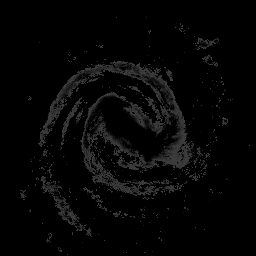
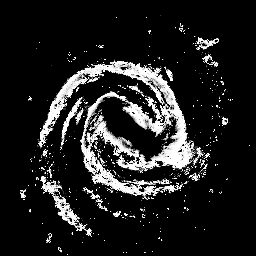
Distributes the clouds according to the map

diff --git a/js/GalaxThree.js b/js/GalaxThree.js
@@ -34,7 +34,8 @@ function StarCategory(name, spectralTypes, radius, luminosity, proba) {
  */ 
 function Galaxy(scene,
 		starImagePath,
-		img,
+		imgStarMap,
+		imgCloudMap,
 		radiusInLy = 200,
 		heightInLy = 5,
 		numberOfStars = 1e6 ) {
@@ -91,10 +92,10 @@ function Galaxy(scene,
     // spectral types.
     createGeoAndMaterials( geoAndMaterialsOfCategories );
 
-    generateStarsAccordingToMap( numberOfStars, img );
+    generateStarsAccordingToMap( numberOfStars, imgStarMap );
     writeConsole( "Number of stars : " + this.starCount );
 
-    let nbClouds = generateClouds( 1000, img, scene );
+    let nbClouds = generateClouds( 10000, imgCloudMap, scene );
     writeConsole( "Number of clouds : " + nbClouds );
 
     // Adds stars to the scene.
@@ -106,9 +107,6 @@ function Galaxy(scene,
 	    }
 	}
     }
-
-
-
 
 
 
@@ -131,8 +129,9 @@ function Galaxy(scene,
 			color: self.spectralTypeToColor[ spectralType ],
 			map: starTexture,
 			size: Math.pow( category.luminosity, 0.8 ) * 1e11,
-			blending: THREE.AdditiveBlending,
-			transparent: true, } ) } );
+			//blending: THREE.SubstractiveBlending,
+			transparent: true,
+		    } ) } );
 	    	
 	    } // end for each spectral type of the category.
 	    
@@ -142,7 +141,7 @@ function Galaxy(scene,
 
 
 
-    
+        
     //////////////////////////////////////////////////////////////////////
     function generateStarsAccordingToMap( numberOfStars, img ) {
 					  
@@ -219,76 +218,85 @@ function Galaxy(scene,
 
 
 
-
     
     //////////////////////////////////////////////////////////////////////
     function generateClouds( numberOfCloud, img, scene ) {
 
+	// Takes the data from the image.
 	let imgData = getImgDataArray( img );
-	let probaForAWhitePixel = getProbaForAWhitePixel( imgData, numberOfCloud );
-	writeConsole( "Proba for a white pixel : " + probaForAWhitePixel );
+	let maxCol = getMaxArray( imgData.data );
+
+	// Adjust all color values between 255 and 0 if the max color is not 255.
+	let coef = 255.0 / maxCol;
+	for ( let i = 0 ; i < imgData.data.length ; i += 4 ) {
+	    imgData.data[i] *= coef;
+	}
+	
 	let pixelSizeInWorldCoord = self.radiusInKm / img.width;
 	let cloudPlaced = 0;
 
-	let text1 = new THREE.TextureLoader().load( "../resources/smoke1.png" );
-	
-	let geo = new THREE.Geometry();
-	
-	while ( cloudPlaced < numberOfCloud )  {
-	    
-	    // For each pixel of the map.
-	    for ( let i = 0 ; i < imgData.data.length && cloudPlaced < numberOfCloud ;
-		  i += 4 ) {
+	let textures = [
+	    new THREE.TextureLoader().load( "../resources/smoke1.png" ),
+	    new THREE.TextureLoader().load( "../resources/smoke2.png" ),
+	];
+	let materials = [
+	    new THREE.PointsMaterial( { color: 0x120804,
+					map: textures[0],
+					size: 5e3 * ly,
+					transparent: true,
+					//blending: THREE.NoBlending,
+					//alphaTest: 0.5,
+				      } ),
+	    // new THREE.PointsMaterial( { color: 0x0f0f0f,
+	    // 				map: textures[1],
+	    // 				size: 4e3 * ly,
+	    // 				transparent: true,
+	    // 			      } ),
+	];
+	let geometries = [
+	    new THREE.Geometry(),
+	    new THREE.Geometry(),
+	];
 
-		let probaForThisPixel = probaForAWhitePixel * ( imgData.data[i] / 255 );
-		let a = Math.random();
+	
+	// For each cloud to place.
+	for ( let i = 0 ; i < numberOfCloud ; ++i ) {
+
+	    let cloudIsPlaced = false;
+	    
+	    while ( !cloudIsPlaced ) {
 		
-		if ( a < probaForThisPixel ) {
+		let a = Math.random();
+		let randomPixelIndex = Math.floor( Math.random() * ( imgData.data.length / 4 ) ) * 4 ;
+
+		if ( a < imgData.data[randomPixelIndex] / 255 ) {
 		    
-		    let pixelX = ( i / 4 ) % img.width;
-		    let pixelY = Math.floor( ( i / 4 ) / img.width );
+		    let pixelX = ( randomPixelIndex / 4 ) % img.width;
+		    let pixelY = Math.floor( ( randomPixelIndex / 4 ) / img.width );
 		    let worldX = pixelX * pixelSizeInWorldCoord;
 		    let worldZ = pixelY * pixelSizeInWorldCoord;
 
 		    let pos = new THREE.Vector3( );
 		    pos.x = worldX;
 		    pos.z = worldZ;
-		    geo.vertices.push( pos );
+		    let whichCloudTex = Math.floor( Math.random() * materials.length );
+		    geometries[whichCloudTex].vertices.push( pos );
 		    ++cloudPlaced;
+		    cloudIsPlaced = true;
 		    
 		}
-	    }
+	    } // end while 
+	} // end for
+
+	for( let i = 0 ; i < geometries.length ; ++i ) {
+	    scene.add( new THREE.Points( geometries[i], materials[i] ) );
 	}
-
-	let mat = new THREE.PointsMaterial( { color: 0x100500,
-					      map: text1,
-					      size: 5e3 * ly,
-					      transparent: true,
-					      blending : THREE.AdditiveBlending
-					    } );
-	scene.add( new THREE.Points( geo, mat ) );
-
+	
 	return cloudPlaced;
 	
     } // end function
-    
-
 
     
-    //////////////////////////////////////////////////////////////////////
-    function getProbaForAWhitePixel( imgData, numberOfThing ) {
-
-	let s = 0;
-
-	for ( let i = 0 ; i < imgData.data.length ; i += 4 ) {
-	    s += imgData.data[i];
-	}
-
-	let S = s / 255;
-	writeConsole( "s = " + s + "S = " + S );
-	return S / ( imgData.data.length / 4 ) / numberOfThing;
-	
-    } // end function 
     
 
     //////////////////////////////////////////////////////////////////////
@@ -374,12 +382,36 @@ function getImgDataArray( img ) {
     let data = new Object();
     //img.setAttribute( 'crossOrigin', 'anonymous' );
     let canvas = document.createElement( "canvas" );
+    document.body.appendChild( canvas );
     canvas.width = img.width;
     canvas.height = img.height;
     let ctx = canvas.getContext( "2d" );
     ctx.drawImage(img, 0, 0);
     data = ctx.getImageData( 0, 0, img.width, img.height );
+
+    canvas.parentNode.removeChild( canvas );
+    
     return data;
+    
+}
+
+
+
+function getMaxArray( array ) {
+
+    let max;
+    
+    if ( array.length >= 1 ) {
+	max = array[0];
+    }
+    
+    for ( let i = 1 ; i < array.length ; ++i ) {
+	if ( array[i] > max ) {
+	    max = array[i];
+	}
+    }
+
+    return max;
     
 }
 

diff --git a/test/testOverview.html b/test/testOverview.html
@@ -16,10 +16,11 @@
     </head>
 
     
-    <body>
+    <body id="body">
 	
 	<canvas id="myCanvas"></canvas>
 	<img id="shape" src="../resources/mw-star-map.png"/>
+	<img id="cloud" src="../resources/mw-cloud-map.png"/>
 
 	<script src="../js/lib/stats.min.js"></script>
 	<script src="../js/lib/dat.gui.min.js"></script>
@@ -90,13 +91,15 @@
 	     scene = new THREE.Scene();
 
 	     // Galaxy
-	     let img = document.getElementById( "shape" );
+	     let imgStarMap = document.getElementById( "shape" );
+	     let imgCloudMap = document.getElementById( "cloud" );
              galaxy = new Galaxy(scene,
 				 "../resources/particle3.png",
-				 img,
+				 imgStarMap,
+				 imgCloudMap,
 				 radiusGalaxyInLy,
 				 radiusGalaxyInLy / 50,
-				 1e6 );
+				 1e5 );
 
 	     // Monitoring
 	     statsFPS = new Stats();
